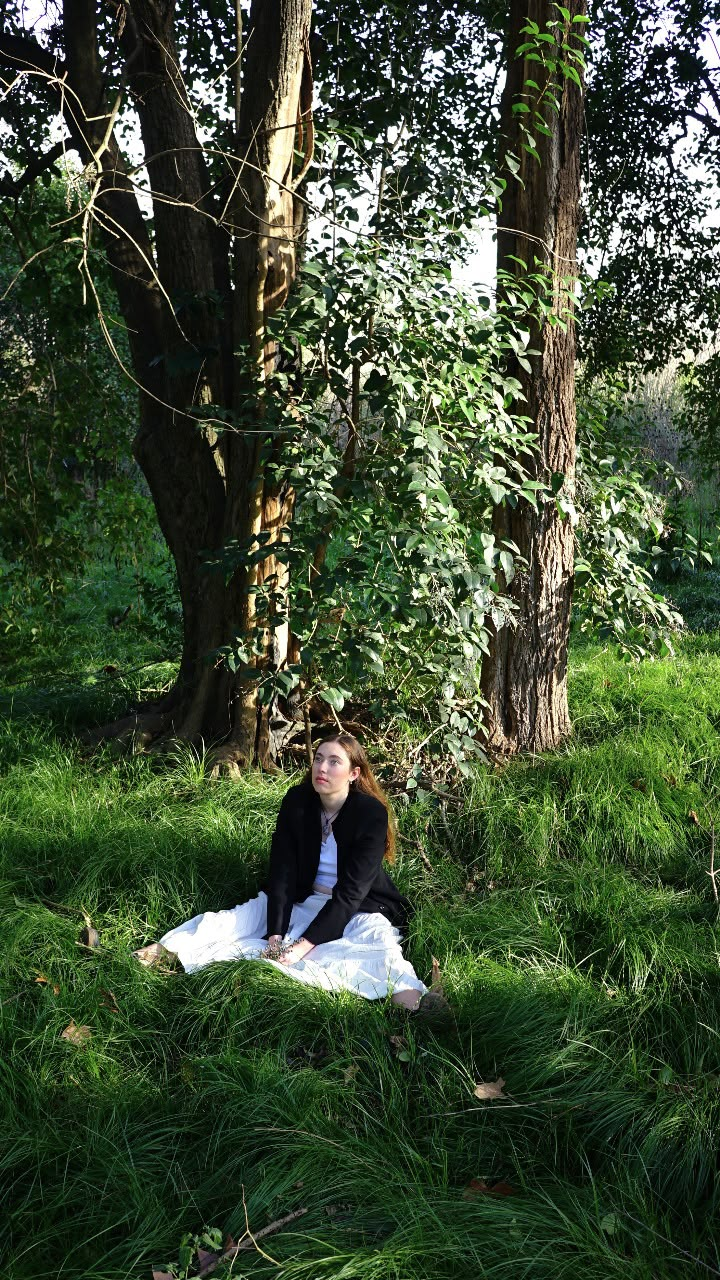
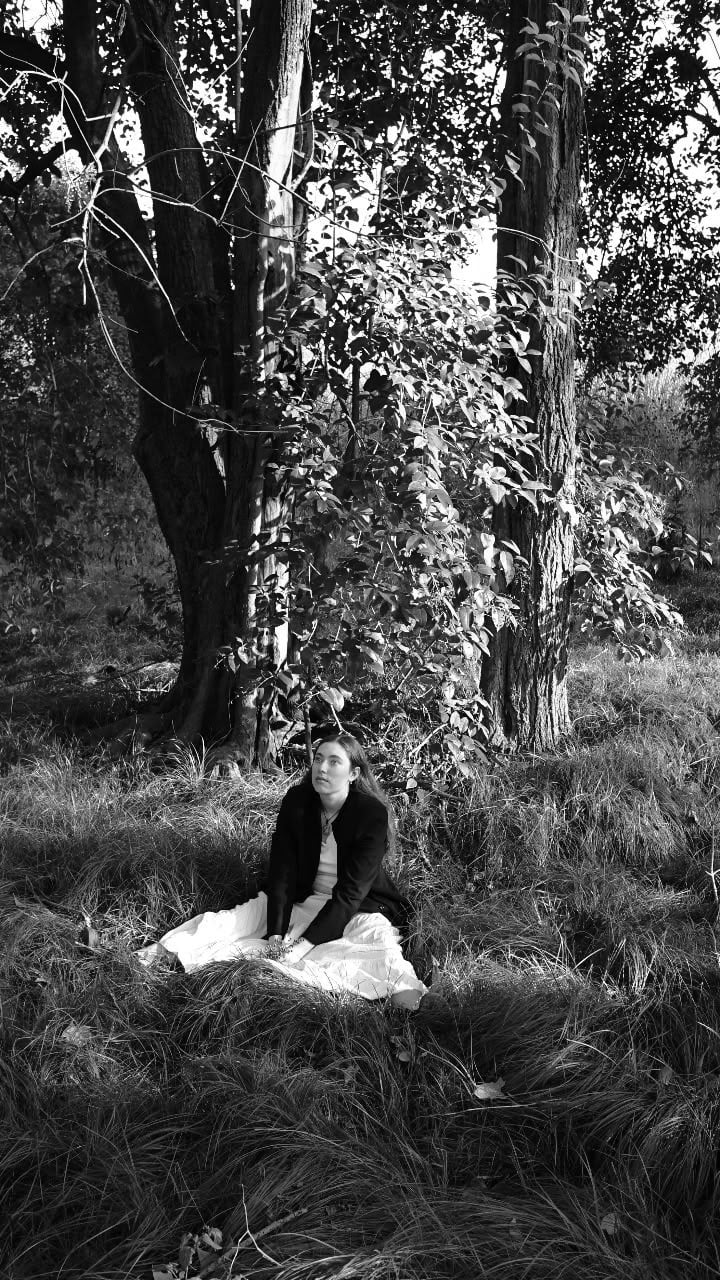
Trendforecast: texto del área más breve; portada de Estilismo en blanco y negro

diff --git a/js/config.js b/js/config.js
@@ -221,7 +221,7 @@ window.SITE_CONFIG = {
       color: "green",
       kicker: "03",
       subtitle: "Lo evidente, dos veces",   // se ve en el menú desplegable de "Áreas"
-      text: "Relevamiento de diseñadores y temporadas anteriores, diferentes universos para relacionar tipologías, texturas, premisas y conceptos. Análisis de tipologías y campañas para poder detectar futuras tendencias (micro y macro). Cartas de materiales, partidos morfológicos y conceptuales. Creación de diferentes tipologías y elementos que representen las nuevas tendencias.",
+      text: "Relevamiento de diseñadores y temporadas para detectar tendencias micro y macro, traducidas en cartas de materiales, conceptos y nuevas tipologías.",
       tags: ["Investigación de tendencias","Coolhunting","Análisis cultural","Lectura de consumo","Moodboards","Reportes de tendencias","Forecasting"],   // 7 palabras clave: roles
       image: "assets/img/portada-trendforecast.jpg",   // página 3 de Pre adolescentes, en blanco y negro
       imageAlt: "Nena con capucha tejida y trenzas, en blanco y negro",
